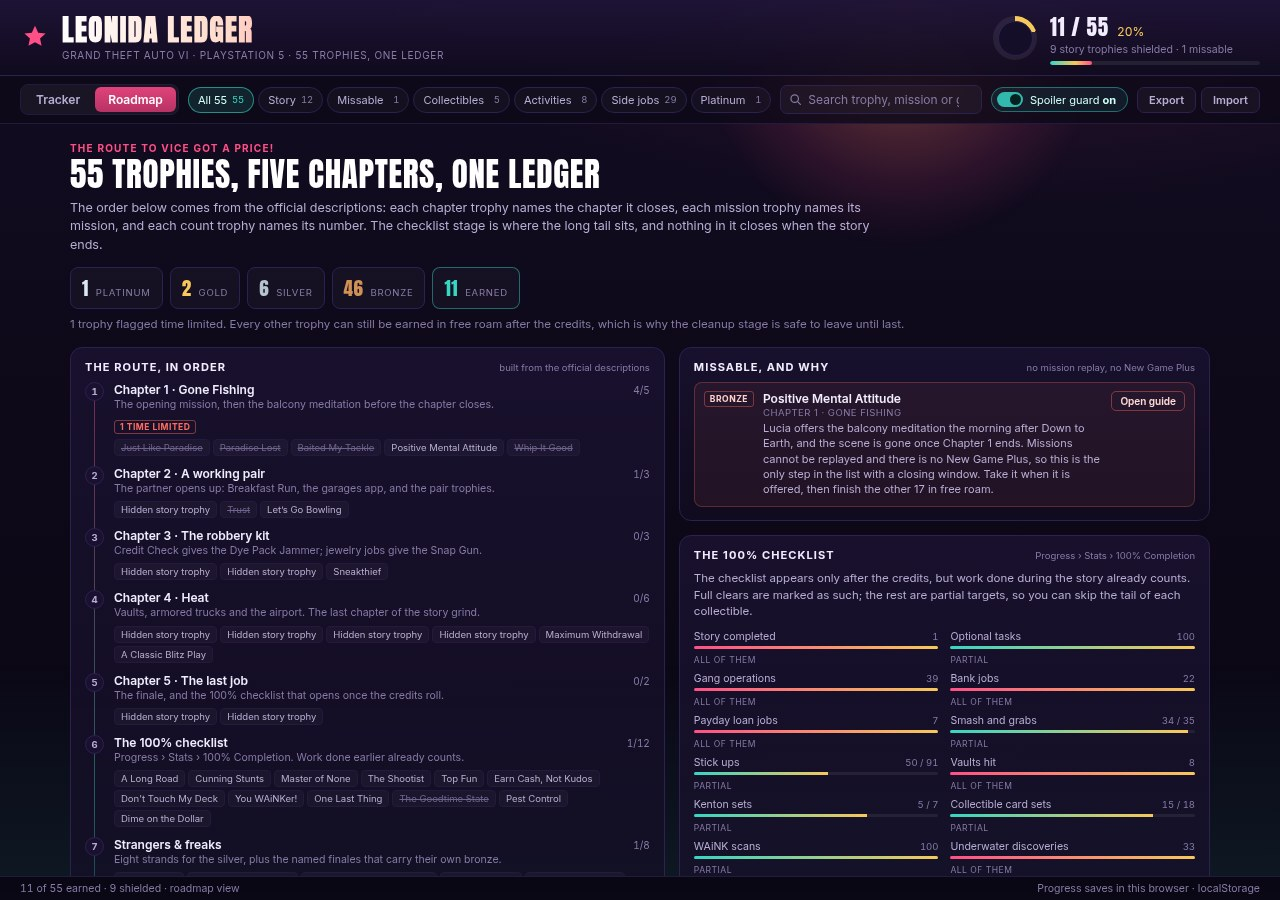
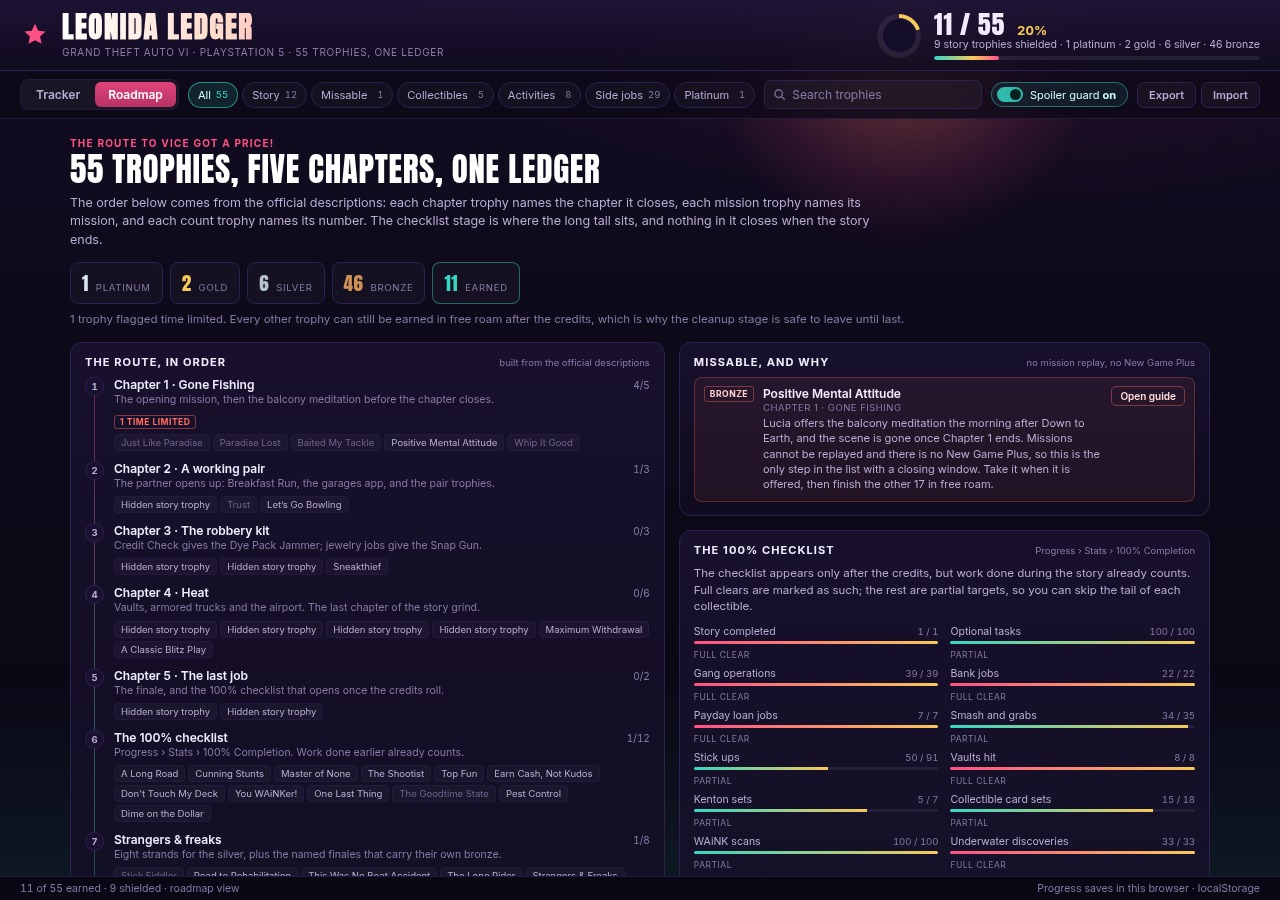
Polish the pane, the counts and the four screenshots
Fix the roadmap checklist showing raw targets as fractions everywhere and
labelling a 1/1 row 'all of them'; it now reads '1 / 1' with a 'full clear'
scope. Chapter tallies in the list count the whole stage rather than only the
rows the active filter lets through, so a chapter reads the same in the list,
the roadmap and the detail pane's 'also in' strip. Add the stage-sibling chips
that fill the detail pane's foot, drop the duplicated footer line, and align
the spoiler shot on an earned story trophy so the pane demonstrates the guard
lifting instead of showing the platinum under a Story filter.

Retake all four screenshots from the fixed build at 1280x900 as JPEG.

Changed region(s): [[0.0, 0.0, 0.9688, 0.9644], [0.7812, 0.3733, 0.9375, 0.4667], [0.4062, 0.4667, 0.4375, 0.4978]]

diff --git a/app/src/main.js b/app/src/main.js
@@ -152,7 +152,7 @@ function buildChecklist() {
     const top = el('div', 'checklist-top');
     top.append(el('span', 'checklist-label', row.label));
     top.append(
-      el('span', 'checklist-target', row.target === row.total ? `${row.target}` : `${row.target} / ${row.total}`),
+      el('span', 'checklist-target', `${row.target} / ${row.total}`),
     );
     item.append(top);
     const track = el('div', 'checklist-track');
@@ -160,7 +160,7 @@ function buildChecklist() {
     fill.style.width = `${Math.round((row.target / row.total) * 100)}%`;
     track.append(fill);
     item.append(track);
-    item.append(el('span', 'checklist-scope', row.scope === 'full' ? 'all of them' : 'partial'));
+    item.append(el('span', 'checklist-scope', row.scope === 'full' ? 'full clear' : 'partial'));
     grid.append(item);
   }
   wrap.append(grid);
@@ -347,6 +347,12 @@ function applyShot() {
   if (shot === 'spoiler') {
     state.spoiler = true;
     state.kind = 'story';
+    // Open an earned story trophy, so the pane shows the guard lifting on what you have earned
+    // while the rows around it stay masked. Falls back to any earned trophy of any kind.
+    const earnedStory = trophies.find((t) => t.kind === 'story' && state.earned.has(t.id));
+    const anyEarned = trophies.find((t) => state.earned.has(t.id));
+    const fallback = (earnedStory ?? anyEarned ?? trophies[0]).id;
+    state.selected = pick(fallback);
     return;
   }
   state.spoiler = false;

diff --git a/app/src/list.js b/app/src/list.js
@@ -88,12 +88,16 @@ export function renderList(trophies) {
 
     const group = document.createElement('section');
     group.className = 'group';
-    const earnedHere = inStage.filter((t) => state.earned.has(t.id)).length;
+    // The tally counts the whole stage, not just the rows the filter lets through, so a chapter
+    // reads the same here as it does on the roadmap and in the detail pane's "also in" strip.
+    const whole = trophies.filter((t) => t.stage === stage.key);
+    const earnedHere = whole.filter((t) => state.earned.has(t.id)).length;
 
     const head = document.createElement('header');
     head.className = 'group-head';
     head.append(text('h2', 'group-name', stage.name));
-    const tally = text('span', 'group-tally', `${earnedHere}/${inStage.length}`);
+    const tally = text('span', 'group-tally', `${earnedHere}/${whole.length}`);
+    if (inStage.length !== whole.length) tally.title = `${inStage.length} shown under this filter`;
     head.append(tally);
     group.append(head);
 

diff --git a/app/style.css b/app/style.css
@@ -495,7 +495,7 @@ body {
   border: 1px solid var(--line-soft); background: rgba(255, 255, 255, 0.03);
   color: var(--ink-2); white-space: nowrap;
 }
-.rail-chip.is-earned { color: #6f6490; text-decoration: line-through; }
+.rail-chip.is-earned { color: #6f6490; }
 .rail-chip.is-masked { color: var(--ink-3); font-style: italic; border-style: dashed; }
 
 .missable-list, .rules-list { list-style: none; margin: 0; padding: 0; display: flex; flex-direction: column; gap: 8px; }
